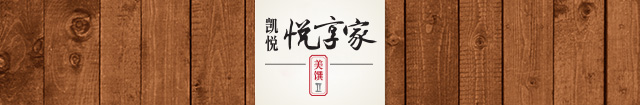
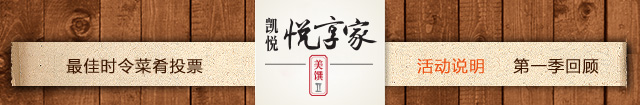
23232

diff --git a/application/views/terms_mobile.php b/application/views/terms_mobile.php
@@ -14,7 +14,7 @@
 <body>
 <div class="container">
     <div class="top">
-        <img src="<?=$this->config->base_url()?>/static/mobile/images/top.jpg"/>
+        <img src="<?=$this->config->base_url()?>/static/mobile/images/top4.jpg"/>
         <a href="<?=$this->config->base_url()?>/welcome/all_mobile?key=<?=$uid?>" class="zjsltp" title="最佳时令菜肴投票"></a>
         <a href="<?=$this->config->base_url()?>?key=<?=$uid?>" class="logo" title="凯悦悦享家"></a>
         <a href="#" class="hdsm" title="活动说明"></a>
